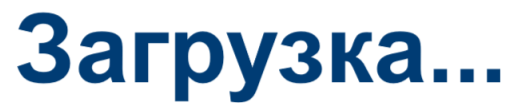
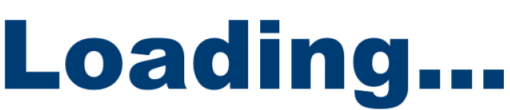
Add English version

diff --git a/RSEMI.py b/RSEMI.py
@@ -2,7 +2,6 @@ import sys
 import os
 import tempfile
 import datetime
-import locale
 import warnings
 import pandas as pd
 import numpy as np
@@ -34,7 +33,6 @@ if "NUITKA_ONEFILE_PARENT" in os.environ:
    if os.path.exists(splash_filename):
       os.unlink(splash_filename)
 
-locale.setlocale(locale.LC_ALL, 'ru_RU.UTF-8')
 match os.name == 'nt':
     case True:
         fnt = 'Times New Roman'
@@ -68,7 +66,7 @@ v_val2: np.ndarray = np.full(shape = len(v_freq), fill_value = np.nan)
 v_val3: np.ndarray = np.full(shape = len(v_freq), fill_value = np.nan)
 v_cal: np.ndarray = np.full(shape = len(v_freq), fill_value = 0)
 v_cor: np.ndarray = np.full(shape = len(v_freq), fill_value = 0)
-v_vnorm: np.ndarray = np.full(shape = len(v_fnorm), fill_value = np.nan)
+v_vnorm = np.full(shape = len(v_fnorm), fill_value = np.nan)
 
 san: RsSpectrumAnalyzer | None = None
 
@@ -76,8 +74,8 @@ def show_error(in1, in2, in3):
     msg_box = QtWidgets.QMessageBox()
     msg_box.setWindowIcon(QtGui.QIcon(basedir + '/util/init.ico'))
     msg_box.setIcon(QtWidgets.QMessageBox.Icon.Critical)
-    msg_box.setWindowTitle('Внимание!')
-    msg_box.setText("Ошибка! \n Подробнее в 'errors.log'.")
+    msg_box.setWindowTitle('Attention!')
+    msg_box.setText("An Error occured! \n See 'errors.log'.")
     errlogger(basedir, f'{in1}, {in2}')
     QtCore.QTimer.singleShot(3000, msg_box.close)
     msg_box.exec()
@@ -132,8 +130,8 @@ class EmiScanWindow(QtWidgets.QDialog, Ui_Settings):
         global check_list, nc, fname_set, data_set
         nc = 0
         fname_set, _ = QtWidgets.QFileDialog.getOpenFileName(
-            self, 'Выберите файл set.tab', basedir +
-            '/Настройки сканирования', filter = 'Tab separated (*set.tab)')
+            self, 'Select *set.tab', basedir +
+            '/Sweep Settings', filter = 'Tab separated (*set.tab)')
         if fname_set:
             data_set = pd.read_table(fname_set, index_col = None, header = None, dtype = str)
             for i in range(len(data_set.index)):
@@ -190,7 +188,7 @@ class EmiScanWindow(QtWidgets.QDialog, Ui_Settings):
     def savetonew(self):
         global fname_set, data_set
         fname_set, _ = QtWidgets.QFileDialog.getSaveFileName(
-            self, 'Укажите имя файла', filter = 'Tab separated (*set.tab)')
+            self, 'Enter File Name', filter = 'Tab separated (*set.tab)')
         if fname_set:
             for i in range(len(data_set.index)):
                 for j in range(self.tbl_scan.columnCount()-1):
@@ -222,7 +220,7 @@ class EmiWindow(QtWidgets.QDialog, Ui_EmiWindow):
             self.f_inst.setText('TCPIP::')
 
         self.sc = MplCanvas(self, dpi = 100)
-        self.ylb = 'Напряжение ИРП, дБмкВ'
+        self.ylb = 'EMI Voltage, dBuV'
         self.tlb = NavigationToolbar2QT(self.sc)
         plotlayout = QtWidgets.QGridLayout()
         plotlayout.addWidget(self.tlb)
@@ -282,11 +280,11 @@ class EmiWindow(QtWidgets.QDialog, Ui_EmiWindow):
     def setval(self):
         match self.cmb_val.currentIndex():
             case 0:
-                self.ylb = 'Напряжение ИРП, дБмкВ'
+                self.ylb = 'EMI Voltage, dBuV'
             case 1:
-                self.ylb = 'Напряженость поля ИРП, дБмкВ/м'
+                self.ylb = 'EMI Field Strength, dBuV/m'
             case 2:
-                self.ylb = 'Сила тока ИРП, дБмкА'
+                self.ylb = 'EMI Current, dBuA'
         self.plotdata()
 
     def setmeas(self, inp):
@@ -298,12 +296,12 @@ class EmiWindow(QtWidgets.QDialog, Ui_EmiWindow):
                     case True:
                         self.f_settings.setText(os.path.basename(fname_set))
                     case False:
-                        self.f_settings.setText('Пользовательские')
+                        self.f_settings.setText('Custom')
                 self.f_settings.setCursorPosition(0)
             case 1:
                 global fname_cal, data_cal, v_cal
-                fname_cal, _ = QtWidgets.QFileDialog.getOpenFileName(self, 'Выберите файл cal.tab',
-                    basedir + '/Калибровочные коэф-ты',
+                fname_cal, _ = QtWidgets.QFileDialog.getOpenFileName(self, 'Select *cal.tab',
+                    basedir + '/Calibration Coefficients',
                     filter = 'Tab separated (*cal.tab)')
                 if fname_cal:
                     data_cal = pd.read_table(fname_cal, decimal=',')
@@ -314,9 +312,9 @@ class EmiWindow(QtWidgets.QDialog, Ui_EmiWindow):
                     self.f_calib.setCursorPosition(0)
                     self.ch_calib.setChecked(True)
             case 2:
-                global fname_cor, data_cor, v_cor, v_fnorm, v_vnorm
-                fname_cor, _ = QtWidgets.QFileDialog.getOpenFileName(self, 'Выберите файл cor.tab',
-                    basedir + '/Амплитудная коррекция',
+                global fname_cor, data_cor, v_cor
+                fname_cor, _ = QtWidgets.QFileDialog.getOpenFileName(self, 'Select *cor.tab',
+                    basedir + '/Amplitude Correction',
                     filter = 'Tab separated (*cor.tab)')
                 if fname_cor:
                     data_cor = pd.read_table(fname_cor, decimal=',')
@@ -327,9 +325,9 @@ class EmiWindow(QtWidgets.QDialog, Ui_EmiWindow):
                     self.f_corr.setCursorPosition(0)
                     self.ch_corr.setChecked(True)
             case 3:
-                global fname_norm, data_norm
-                fname_norm, _ = QtWidgets.QFileDialog.getOpenFileName(self, 'Выберите файл nor.tab',
-                    basedir + '/Нормы',
+                global fname_norm, data_norm, v_fnorm, v_vnorm
+                fname_norm, _ = QtWidgets.QFileDialog.getOpenFileName(self, 'Select *nor.tab',
+                    basedir + '/Limit Lines',
                     filter = 'Tab separated (*nor.tab)')
                 if fname_norm:
                     data_norm = pd.read_table(fname_norm, decimal=',')
@@ -488,7 +486,7 @@ class EmiWindow(QtWidgets.QDialog, Ui_EmiWindow):
 
     def savetab(self):
         fname, _ = QtWidgets.QFileDialog.getSaveFileName(
-            self, 'Укажите имя файла', basedir + '/Результаты сканирования',
+            self, 'Enter File Name', basedir + '/Measurement Results',
             filter = 'Tab separated (*.tab)')
         if fname:
             match self.cmb_val.currentIndex():
@@ -508,7 +506,7 @@ class EmiWindow(QtWidgets.QDialog, Ui_EmiWindow):
 
     def savejpg(self):
         fname, _ = QtWidgets.QFileDialog.getSaveFileName(
-            self, 'Укажите имя файла', basedir + '/Результаты сканирования/Изображения',
+            self, 'Enter File Name', basedir + '/Measurement Results/Images',
             filter = 'JPEG files (*.jpg)')
         if fname:
             self.sc.print_jpg(fname)
@@ -516,7 +514,7 @@ class EmiWindow(QtWidgets.QDialog, Ui_EmiWindow):
     def loadtab(self):
         global v_freq, v_val1, v_val2, v_val3, v_cal, v_cor
         fname, _ = QtWidgets.QFileDialog.getOpenFileName(
-            self, 'Выберите файл .tab', basedir + '/Результаты сканирования',
+            self, 'Select *.tab', basedir + '/Measurement Results',
             filter = 'Tab separated (*.tab)')
         if fname:
             datf = pd.read_table(fname, decimal=',')
@@ -540,13 +538,13 @@ class EmiWindow(QtWidgets.QDialog, Ui_EmiWindow):
             match unit:
                 case 'dBuV':
                     self.cmb_val.setCurrentIndex(0)
-                    self.ylb = 'Напряжение ИРП, дБмкВ'
+                    self.ylb = 'EMI Voltage, dBuV'
                 case 'dBuV/m':
                     self.cmb_val.setCurrentIndex(1)
-                    self.ylb = 'Напряженность поля ИРП, дБмкВ/м'
+                    self.ylb = 'EMI Field Strength, dBuV/m'
                 case 'dBuA':
                     self.cmb_val.setCurrentIndex(2)
-                    self.ylb = 'Сила тока ИРП, дБмкА'
+                    self.ylb = 'EMI Current, dBuA'
             self.plotdata()
 
     def setx(self):
@@ -559,7 +557,6 @@ class EmiWindow(QtWidgets.QDialog, Ui_EmiWindow):
 
     def plotdata(self):
         self.sc.axes.cla()
-        self.sc.axes.ticklabel_format(useLocale = True)
         line3, = self.sc.axes.plot(v_freq, v_val3+v_cal-v_cor+self.sp_att.value(),
                             linewidth = 1.5, alpha = 0.85, color = (0.46, 0.67, 0.19))
         line1, = self.sc.axes.plot(v_freq, v_val1+v_cal-v_cor+self.sp_att.value(),
@@ -570,12 +567,12 @@ class EmiWindow(QtWidgets.QDialog, Ui_EmiWindow):
                                     color = (0.41, 0.58, 0.74))
         self.sc.axes.set(xscale = 'log')
         self.sc.axes.set_ylabel(self.ylb, fontname = fnt, fontsize = 18)
-        self.sc.axes.set_xlabel('Частота, МГц', fontname = fnt, fontsize = 18)
+        self.sc.axes.set_xlabel('Frequency, MHz', fontname = fnt, fontsize = 18)
         self.sc.axes.yaxis.set_major_locator(ticker.MultipleLocator(10))
         self.sc.axes.xaxis.set_ticks(np.array([0.009, 0.02, 0.05, 0.15, 0.5,
                                                 1, 2, 5, 10, 15, 30, 50, 100, 200, 500, 1000,
                                                 3000, 9000, 18000]))
-        self.sc.axes.set_xticklabels(['0,009', '0,02', '0,05', '0,15', '0,5',
+        self.sc.axes.set_xticklabels(['0.009', '0.02', '0.05', '0.15', '0.5',
                                         '1', '2', '5', '10', '15', '30', '50', '100', '200', '500',
                                         '1∙10\N{SUPERSCRIPT THREE}', '3∙10\N{SUPERSCRIPT THREE}',
                                         '9∙10\N{SUPERSCRIPT THREE}', '18∙10\N{SUPERSCRIPT THREE}'])
@@ -587,13 +584,13 @@ class EmiWindow(QtWidgets.QDialog, Ui_EmiWindow):
         self.sc.axes.grid(True)
         self.sc.axes.format_coord = lambda x, y: "x = {:4.3F}\n y = {:3.2f}".format(x, y)
         if np.any(~np.isnan(v_val1)):
-            line1.set_label('Уровень ИРП')
+            line1.set_label('EMI Level 1')
         if np.any(~np.isnan(v_val2)):
-            line2.set_label('Уровень ИРП2')
+            line2.set_label('EMI Level 2')
         if np.any(~np.isnan(v_val3)):
-            line3.set_label('Уровень фона')
+            line3.set_label('Background Level')
         if np.any(~np.isnan(v_vnorm)):
-            line4.set_label('Норма по ГОСТ')
+            line4.set_label('Limit Line')
         self.sc.axes.legend(prop = {'family': 'serif', 'size': 14})
         self.sc.draw()
 

diff --git a/_gui/emiwindow.py b/_gui/emiwindow.py
@@ -38,7 +38,7 @@ class Ui_EmiWindow(object):
         self.f_calib.setReadOnly(True)
         self.ch_calib = QCheckBox(self.gr_meas)
         self.ch_calib.setObjectName(u"ch_calib")
-        self.ch_calib.setGeometry(QRect(244, 115, 21, 28))
+        self.ch_calib.setGeometry(QRect(243, 115, 21, 28))
         self.b_corr = MyPushButton(self.gr_meas)
         self.b_corr.setObjectName(u"b_corr")
         self.b_corr.setGeometry(QRect(10, 145, 111, 28))
@@ -48,7 +48,7 @@ class Ui_EmiWindow(object):
         self.f_corr.setReadOnly(True)
         self.ch_corr = QCheckBox(self.gr_meas)
         self.ch_corr.setObjectName(u"ch_corr")
-        self.ch_corr.setGeometry(QRect(244, 145, 21, 28))
+        self.ch_corr.setGeometry(QRect(243, 145, 21, 28))
         self.b_norm = MyPushButton(self.gr_meas)
         self.b_norm.setObjectName(u"b_norm")
         self.b_norm.setGeometry(QRect(10, 205, 111, 28))
@@ -58,10 +58,10 @@ class Ui_EmiWindow(object):
         self.f_norm.setReadOnly(True)
         self.ch_norm = QCheckBox(self.gr_meas)
         self.ch_norm.setObjectName(u"ch_norm")
-        self.ch_norm.setGeometry(QRect(244, 205, 21, 28))
+        self.ch_norm.setGeometry(QRect(243, 205, 21, 28))
         self.sp_att = QSpinBox(self.gr_meas)
         self.sp_att.setObjectName(u"sp_att")
-        self.sp_att.setGeometry(QRect(10, 176, 251, 25))
+        self.sp_att.setGeometry(QRect(10, 177, 251, 25))
         self.sp_att.setButtonSymbols(QAbstractSpinBox.ButtonSymbols.UpDownArrows)
         self.sp_att.setMaximum(60)
         self.cmb_trac = QComboBox(self.gr_meas)
@@ -129,51 +129,49 @@ class Ui_EmiWindow(object):
         self.gr_load = QGroupBox(EmiWindow)
         self.gr_load.setObjectName(u"gr_load")
         self.gr_load.setGeometry(QRect(20, 570, 271, 61))
-        # self.b_csv_l = MyPushButton(self.gr_load)
-        # self.b_csv_l.setObjectName(u"b_csv_l")
-        # self.b_csv_l.setGeometry(QRect(10, 22, 121, 28))
         self.b_tab_l = MyPushButton(self.gr_load)
         self.b_tab_l.setObjectName(u"b_tab_l")
         self.b_tab_l.setGeometry(QRect(10, 22, 251, 28))
 
         self.retranslateUi(EmiWindow)
+    # setupUi
 
     def retranslateUi(self, EmiWindow):
         EmiWindow.setWindowTitle(QCoreApplication.translate("EmiWindow", u"Dialog", None))
-        self.gr_meas.setTitle(QCoreApplication.translate("EmiWindow", u"\u0418\u0437\u043c\u0435\u0440\u0435\u043d\u0438\u044f \u0438 \u043a\u043e\u043d\u0442\u0440\u043e\u043b\u044c", None))
-        self.cmb_val.setItemText(0, QCoreApplication.translate("EmiWindow", u"\u041d\u0430\u043f\u0440\u044f\u0436\u0435\u043d\u0438\u0435", None))
-        self.cmb_val.setItemText(1, QCoreApplication.translate("EmiWindow", u"\u041d\u0430\u043f\u0440\u044f\u0436\u0435\u043d\u043d\u043e\u0441\u0442\u044c \u043f\u043e\u043b\u044f", None))
-        self.cmb_val.setItemText(2, QCoreApplication.translate("EmiWindow", u"\u0421\u0438\u043b\u0430 \u0442\u043e\u043a\u0430", None))
+        self.gr_meas.setTitle(QCoreApplication.translate("EmiWindow", u"Measurement and Control", None))
+        self.cmb_val.setItemText(0, QCoreApplication.translate("EmiWindow", u"Voltage", None))
+        self.cmb_val.setItemText(1, QCoreApplication.translate("EmiWindow", u"Field Strength", None))
+        self.cmb_val.setItemText(2, QCoreApplication.translate("EmiWindow", u"Current", None))
 
-        self.b_settings.setText(QCoreApplication.translate("EmiWindow", u"\u041d\u0430\u0441\u0442\u0440\u043e\u0439\u043a\u0438", None))
-        self.b_calib.setText(QCoreApplication.translate("EmiWindow", u"\u041a\u0430\u043b\u0438\u0431. \u043a\u043e\u044d\u0444.", None))
+        self.b_settings.setText(QCoreApplication.translate("EmiWindow", u"Settings", None))
+        self.b_calib.setText(QCoreApplication.translate("EmiWindow", u"Calib. coeff.", None))
         self.ch_calib.setText("")
-        self.b_corr.setText(QCoreApplication.translate("EmiWindow", u"\u041a\u043e\u0440\u0440\u0435\u043a\u0446\u0438\u044f", None))
+        self.b_corr.setText(QCoreApplication.translate("EmiWindow", u"Correction", None))
         self.ch_corr.setText("")
-        self.b_norm.setText(QCoreApplication.translate("EmiWindow", u"\u041d\u043e\u0440\u043c\u044b", None))
+        self.b_norm.setText(QCoreApplication.translate("EmiWindow", u"Limit", None))
         self.ch_norm.setText("")
-        self.sp_att.setSuffix(QCoreApplication.translate("EmiWindow", u"  \u0434\u0411", None))
-        self.sp_att.setPrefix(QCoreApplication.translate("EmiWindow", u"\u0412\u043d\u0435\u0448. \u0430\u0442\u0442\u0435\u043d\u044e\u0430\u0446\u0438\u044f  ", None))
-        self.cmb_trac.setItemText(0, QCoreApplication.translate("EmiWindow", u"\u0422\u0440\u0430\u0441\u0441\u0430 1 (\u0423\u0440\u043e\u0432\u0435\u043d\u044c \u0418\u0420\u041f)", None))
-        self.cmb_trac.setItemText(1, QCoreApplication.translate("EmiWindow", u"\u0422\u0440\u0430\u0441\u0441\u0430 2 (\u0443\u0440\u043e\u0432\u0435\u043d\u044c \u0418\u0420\u041f2)", None))
-        self.cmb_trac.setItemText(2, QCoreApplication.translate("EmiWindow", u"\u0422\u0440\u0430\u0441\u0441\u0430 3 (\u0444\u043e\u043d)", None))
+        self.sp_att.setSuffix(QCoreApplication.translate("EmiWindow", u" dB", None))
+        self.sp_att.setPrefix(QCoreApplication.translate("EmiWindow", u"External Attenuation | ", None))
+        self.cmb_trac.setItemText(0, QCoreApplication.translate("EmiWindow", u"Trace 1 (EMI Level 1)", None))
+        self.cmb_trac.setItemText(1, QCoreApplication.translate("EmiWindow", u"Trace 2 (EMI Level 2)", None))
+        self.cmb_trac.setItemText(2, QCoreApplication.translate("EmiWindow", u"Trace 3 (Background Level)", None))
 
-        self.b_start.setText(QCoreApplication.translate("EmiWindow", u"\u041f\u0443\u0441\u043a", None))
-        self.b_clear.setText(QCoreApplication.translate("EmiWindow", u"\u041e\u0447\u0438\u0441\u0442\u0438\u0442\u044c", None))
-        self.gr_inst.setTitle(QCoreApplication.translate("EmiWindow", u"\u0410\u043d\u0430\u043b\u0438\u0437\u0430\u0442\u043e\u0440", None))
+        self.b_start.setText(QCoreApplication.translate("EmiWindow", u"Start Sweep", None))
+        self.b_clear.setText(QCoreApplication.translate("EmiWindow", u"Clear", None))
+        self.gr_inst.setTitle(QCoreApplication.translate("EmiWindow", u"Instrument", None))
         self.f_inst.setText(QCoreApplication.translate("EmiWindow", u"TCPIP0::169.254.26.18::inst0::INSTR", None))
-        self.b_connect.setText(QCoreApplication.translate("EmiWindow", u"\u041f\u043e\u0434\u043a\u043b\u044e\u0447\u0435\u043d\u0438\u0435", None))
+        self.b_connect.setText(QCoreApplication.translate("EmiWindow", u"Connect", None))
         self.f_opc.setText(QCoreApplication.translate("EmiWindow", u"OPC", None))
         self.l_esr.setText(QCoreApplication.translate("EmiWindow", u"ESR", None))
         self.f_qye.setText(QCoreApplication.translate("EmiWindow", u"Error", None))
-        self.l_stat.setText(QCoreApplication.translate("EmiWindow", u"\u0421\u0442\u0430\u0442\u0443\u0441", None))
+        self.l_stat.setText(QCoreApplication.translate("EmiWindow", u"Status", None))
         self.f_stat.setText("")
-        self.gr_save.setTitle(QCoreApplication.translate("EmiWindow", u"\u0421\u043e\u0445\u0440\u0430\u043d\u0438\u0442\u044c", None))
-        self.b_csv.setText(QCoreApplication.translate("EmiWindow", u"set", None))
+        self.gr_save.setTitle(QCoreApplication.translate("EmiWindow", u"Save", None))
+        self.b_csv.setText(QCoreApplication.translate("EmiWindow", u"dataset", None))
         self.b_scr.setText(QCoreApplication.translate("EmiWindow", u"screen", None))
         self.b_tab.setText(QCoreApplication.translate("EmiWindow", u"tab", None))
         self.b_jpg.setText(QCoreApplication.translate("EmiWindow", u"jpg", None))
-        self.gr_plot.setTitle(QCoreApplication.translate("EmiWindow", u"\u041f\u043e\u0441\u0442\u0440\u043e\u0435\u043d\u0438\u044f", None))
-        self.gr_load.setTitle(QCoreApplication.translate("EmiWindow", u"\u0417\u0430\u0433\u0440\u0443\u0437\u0438\u0442\u044c", None))
-        # self.b_csv_l.setText(QCoreApplication.translate("EmiWindow", u"csv", None))
+        self.gr_plot.setTitle(QCoreApplication.translate("EmiWindow", u"Plots", None))
+        self.gr_load.setTitle(QCoreApplication.translate("EmiWindow", u"Load", None))
         self.b_tab_l.setText(QCoreApplication.translate("EmiWindow", u"tab", None))
+    # retranslateUi

diff --git a/_gui/scanwindow.py b/_gui/scanwindow.py
@@ -66,10 +66,11 @@ class Ui_Settings(object):
         self.b_save.setCheckable(False)
 
         self.retranslateUi(Settings)
+    # setupUi
 
     def retranslateUi(self, Settings):
         Settings.setWindowTitle(QCoreApplication.translate("Settings", u"Dialog", None))
-        self.gr_set.setTitle(QCoreApplication.translate("Settings", u"\u041d\u0430\u0441\u0442\u0440\u043e\u0439\u043a\u0438 \u0441\u043a\u0430\u043d\u0438\u0440\u043e\u0432\u0430\u043d\u0438\u044f", None))
+        self.gr_set.setTitle(QCoreApplication.translate("Settings", u"Sweep Settings", None))
         ___qtablewidgetitem = self.tbl_scan.horizontalHeaderItem(0)
         ___qtablewidgetitem.setText(QCoreApplication.translate("Settings", u"Fstart", None));
         ___qtablewidgetitem1 = self.tbl_scan.horizontalHeaderItem(1)
@@ -90,6 +91,7 @@ class Ui_Settings(object):
         self.ch_1.setText("")
         self.ch_2.setText("")
         self.ch_3.setText("")
-        self.b_load.setText(QCoreApplication.translate("Settings", u"\u0417\u0430\u0433\u0440\u0443\u0437\u0438\u0442\u044c", None))
-        self.b_apply.setText(QCoreApplication.translate("Settings", u"\u041f\u0440\u0438\u043c\u0435\u043d\u0438\u0442\u044c", None))
-        self.b_save.setText(QCoreApplication.translate("Settings", u"\u0421\u043e\u0445\u0440\u0430\u043d\u0438\u0442\u044c \u0432 \u043d\u043e\u0432\u044b\u0439", None))
+        self.b_load.setText(QCoreApplication.translate("Settings", u"Load", None))
+        self.b_apply.setText(QCoreApplication.translate("Settings", u"Apply", None))
+        self.b_save.setText(QCoreApplication.translate("Settings", u"Save to New", None))
+    # retranslateUi

diff --git a/_gui/canvas.py b/_gui/canvas.py
@@ -6,16 +6,16 @@ class MplCanvas(FigureCanvasQTAgg):
     def __init__(self, parent = None, dpi = 300):
         fig = Figure(dpi = dpi)
         self.axes = fig.add_subplot(111)
-        fig.subplots_adjust(left = 0.11, bottom = 0.125, right = 0.95, top = 0.95)
+        fig.subplots_adjust(left = 0.1, bottom = 0.11, right = 0.96, top = 0.96)
         super().__init__(fig)
 
 class NavigationToolbar2QT(NT2QT):
         NT2QT.toolitems = (
-            ('Home', 'Восстановить вид', 'home', 'home'),
-            ('Back', 'Предыдущий вид', 'back', 'back'),
-            ('Forward', 'Следующий вид', 'forward', 'forward'),
+            ('Home', 'Restore View', 'home', 'home'),
+            ('Back', 'Previous View', 'back', 'back'),
+            ('Forward', 'Next View', 'forward', 'forward'),
             (None, None, None, None),
-            ('Pan', 'Переместить', 'move', 'pan'),
-            ('Zoom', 'Увеличить', 'zoom_to_rect', 'zoom'),
+            ('Pan', 'Move', 'move', 'pan'),
+            ('Zoom', 'Zoom', 'zoom_to_rect', 'zoom'),
             (None, None, None, None),
             )

diff --git a/_gui/axgroup.py b/_gui/axgroup.py
@@ -9,14 +9,14 @@ class AxesGroupBox(QGroupBox):
        self.sp_ymin.setGeometry(QRect(160, 30, 151, 22))
        self.sp_ymin.setMinimum(-140)
        self.sp_ymin.setMaximum(100)
-       self.sp_ymin.setPrefix('Ymin ')
-       self.sp_ymin.setSuffix(' дБ')
+       self.sp_ymin.setPrefix('Ymin | ')
+       self.sp_ymin.setSuffix(' dB')
        self.sp_ymax = QSpinBox(self)
        self.sp_ymax.setGeometry(QRect(160, 6, 151, 22))
        self.sp_ymax.setMinimum(-100)
        self.sp_ymax.setMaximum(180)
-       self.sp_ymax.setPrefix('Ymax ')
-       self.sp_ymax.setSuffix(' дБ')
+       self.sp_ymax.setPrefix('Ymax | ')
+       self.sp_ymax.setSuffix(' dB')
        self.l_xmax = QLabel(self)
        self.l_xmax.setGeometry(QRect(10, 6, 40, 22))
        self.l_xmax.setText('Xmax ')
